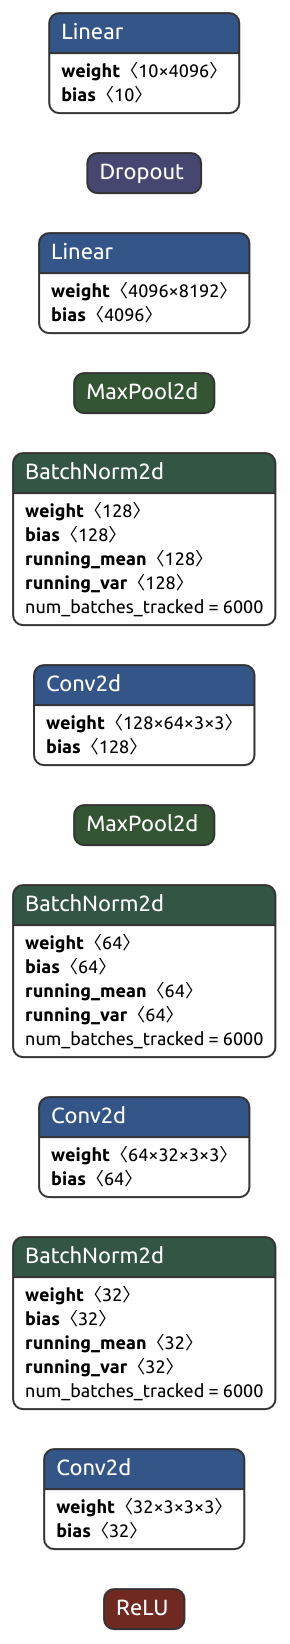
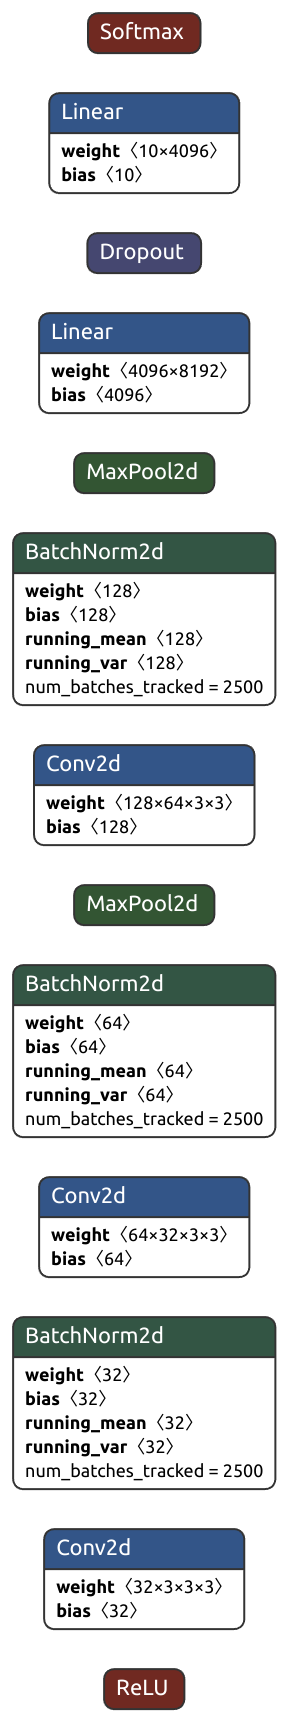
arrangements

diff --git a/app/cnn_architecture/optimized_cnn.py b/app/cnn_architecture/optimized_cnn.py
@@ -56,29 +56,35 @@ class OptimizedCNN(nn.Module):
 
     def __init__(self , config):
         super(OptimizedCNN,self).__init__()
-        self.cnn1 = nn.Conv2d(in_channels=config.image_number_of_channel , out_channels=config.layer1_number_of_channels, kernel_size=config.layer1_filter_kernel_size, stride=config.layer1_stride , padding=self.same_padding(32,3,1))
+        self.cnn1 = nn.Conv2d(in_channels=config.image_number_of_channel , out_channels=config.layer1_number_of_channels, kernel_size=config.layer1_filter_kernel_size, stride=config.layer1_stride ,
+         padding=self.same_padding(32,config.layer1_filter_kernel_size,config.layer1_stride))
         self.relu = nn.ReLU()
         self.batchnorm1 = nn.BatchNorm2d(config.layer1_number_of_channels)
 
-        self.cnn2 = nn.Conv2d(in_channels=config.layer1_number_of_channels , out_channels=config.layer2_number_of_channels, kernel_size=config.layer2_filter_kernel_size, stride=config.layer2_stride , padding=self.same_padding(32,3,1))
+        self.cnn2 = nn.Conv2d(in_channels=config.layer1_number_of_channels , out_channels=config.layer2_number_of_channels, kernel_size=config.layer2_filter_kernel_size, stride=config.layer2_stride , 
+                              padding=self.same_padding(32,config.layer2_filter_kernel_size,config.layer2_stride))
         #RELU
         self.batchnorm2 = nn.BatchNorm2d(config.layer2_number_of_channels)
         self.maxpool1 = nn.MaxPool2d(kernel_size = config.first_max_pool_kernel_size)
         self.dropout1 = nn.Dropout(p = config.dropout_1_p)
         
-        self.cnn3 = nn.Conv2d(in_channels=config.layer2_number_of_channels , out_channels=config.layer3_number_of_channels, kernel_size=config.layer3_filter_kernel_size, stride=config.layer3_stride, padding=self.same_padding(16,3,1))
+        self.cnn3 = nn.Conv2d(in_channels=config.layer2_number_of_channels , out_channels=config.layer3_number_of_channels, kernel_size=config.layer3_filter_kernel_size, stride=config.layer3_stride, 
+                              padding=self.same_padding(16,config.layer3_filter_kernel_size,config.layer3_stride))
         #RELU
         self.batchnorm3 = nn.BatchNorm2d(config.layer3_number_of_channels)
-        self.cnn4 = nn.Conv2d(in_channels=config.layer3_number_of_channels , out_channels=config.layer4_number_of_channels, kernel_size=config.layer4_filter_kernel_size, stride=config.layer4_stride , padding=self.same_padding(16,3,1))
+        self.cnn4 = nn.Conv2d(in_channels=config.layer3_number_of_channels , out_channels=config.layer4_number_of_channels, kernel_size=config.layer4_filter_kernel_size, stride=config.layer4_stride ,
+                              padding=self.same_padding(16,config.layer4_filter_kernel_size,config.layer4_stride))
         self.batchnorm4 = nn.BatchNorm2d(config.layer4_number_of_channels)
         self.maxpool2 = nn.MaxPool2d(kernel_size= config.second_max_pool_kernel_size)
         self.dropout2 = nn.Dropout(p = config.dropout_2_p)
 
 
-        self.cnn5 = nn.Conv2d(in_channels=config.layer4_number_of_channels , out_channels=config.layer5_number_of_channels, kernel_size=config.layer5_filter_kernel_size, stride=config.layer5_stride , padding=self.same_padding(8,3,1))
+        self.cnn5 = nn.Conv2d(in_channels=config.layer4_number_of_channels , out_channels=config.layer5_number_of_channels, kernel_size=config.layer5_filter_kernel_size, stride=config.layer5_stride ,
+                              padding=self.same_padding(8,config.layer5_filter_kernel_size,config.layer5_stride))
         #RELU
         self.batchnorm5 = nn.BatchNorm2d(config.layer5_number_of_channels)
-        self.cnn6 = nn.Conv2d(in_channels=config.layer5_number_of_channels , out_channels=config.layer6_number_of_channels, kernel_size=config.layer6_filter_kernel_size, stride=config.layer6_stride  , padding=self.same_padding(8,3,1))
+        self.cnn6 = nn.Conv2d(in_channels=config.layer5_number_of_channels , out_channels=config.layer6_number_of_channels, kernel_size=config.layer6_filter_kernel_size, stride=config.layer6_stride  ,
+                              padding=self.same_padding(8,config.layer6_filter_kernel_size,config.layer6_stride))
         self.batchnorm6 = nn.BatchNorm2d(config.layer6_number_of_channels)
         self.maxpool3 = nn.MaxPool2d(kernel_size=config.third_max_pool_kernel_size)
         self.dropout3 = nn.Dropout(p=config.dropout_3_p)

diff --git a/app/cnn_architecture/unique_cnn.py b/app/cnn_architecture/unique_cnn.py
@@ -33,6 +33,8 @@ class CNNUniqueConfig:
 	dropout_p: float
 	fc2_out_features: int
 
+	softmax_dim : int
+
 #TODO same_padding confige gore guncellenecek. 
 #TODO init kismindeki degerler tomldan cekilecek.
 
@@ -45,9 +47,11 @@ class UniqueCNN(nn.Module):
 
 		self.relu = nn.ReLU()
 
-		self.cnn1 = nn.Conv2d(in_channels=config.image_number_of_channel , out_channels=config.layer1_number_of_channels, kernel_size=config.layer1_filter_kernel_size, stride=config.layer1_stride , padding=self.same_padding(32,3,1))
+		self.cnn1 = nn.Conv2d(in_channels=config.image_number_of_channel , out_channels=config.layer1_number_of_channels, kernel_size=config.layer1_filter_kernel_size, stride=config.layer1_stride ,
+						 padding=self.same_padding(32,config.layer1_filter_kernel_size,config.layer1_stride))
 		self.batchnorm1 = nn.BatchNorm2d(config.layer1_number_of_channels)
-		self.cnn2 = nn.Conv2d(in_channels=config.layer1_number_of_channels , out_channels=config.layer2_number_of_channels, kernel_size=config.layer2_filter_kernel_size, stride=config.layer2_stride  , padding=self.same_padding(32,3,1))
+		self.cnn2 = nn.Conv2d(in_channels=config.layer1_number_of_channels , out_channels=config.layer2_number_of_channels, kernel_size=config.layer2_filter_kernel_size, stride=config.layer2_stride  ,
+						 padding=self.same_padding(32,config.layer2_filter_kernel_size,config.layer2_stride))
 		self.batchnorm2 = nn.BatchNorm2d(config.layer2_number_of_channels)
 		self.maxpool1 = nn.MaxPool2d(kernel_size=config.first_max_pool_kernel_size)
 		self.cnn3 = nn.Conv2d(in_channels=config.layer2_number_of_channels , out_channels=config.layer3_number_of_channels, kernel_size=config.layer3_filter_kernel_size, stride=config.layer3_stride, padding=config.layer3_padding)
@@ -56,6 +60,7 @@ class UniqueCNN(nn.Module):
 		self.fc1 = nn.Linear(in_features = config.fc1_in_features , out_features = config.fc1_out_features)
 		self.dropout = nn.Dropout(p=config.dropout_p)
 		self.fc2 = nn.Linear(in_features = config.fc1_out_features , out_features = config.fc2_out_features)
+		self.softmax = nn.Softmax(dim=config.softmax_dim)
 
 
 		# self.relu = nn.ReLU()

diff --git a/app/train.py b/app/train.py
@@ -1,7 +1,7 @@
 from dataclasses import dataclass
 from typing import Any
-from .cnn_architecture.cnn import UniqueCNN, CNNUniqueConfig
-from .cnn_architecture.cnn_2 import OptimizedCNN, CNNOptimizedConfig
+from .cnn_architecture.unique_cnn import UniqueCNN, CNNUniqueConfig
+from .cnn_architecture.optimized_cnn import OptimizedCNN, CNNOptimizedConfig
 
 from .cnn_architecture.utils.preprocess_data import PreProcess
 from .cnn_architecture.utils.post_process import PostProcess

diff --git a/README.md b/README.md
@@ -6,14 +6,14 @@
 
 ### Unique CNN Architecture
 <div align="center">
-  <img src="images/unique_model_last_best.png" alt="Image Alt Text" width = 640  />
+  <img src="images/unique_model_last_best.png" alt="Image Alt Text" height = 640  />
 </div>
 
 
 ### Optimized CNN Achitecture
 
 <div align="center">
-  <img src="images/optimized_model_last_best.png" alt="Image Alt Text" width = 640  />
+  <img src="images/optimized_model_last_best.png" alt="Image Alt Text" height = 640  />
 </div>
 
 
@@ -44,6 +44,11 @@ conda activate cnn-cifar-pytorch
 
 ```bash
 pip install --upgrade pip wheel setuptools
+```
+
+- Torch installation with CUDA
+```bash
+pip3 install torch torchvision torchaudio
 ```
 
 ```bash
